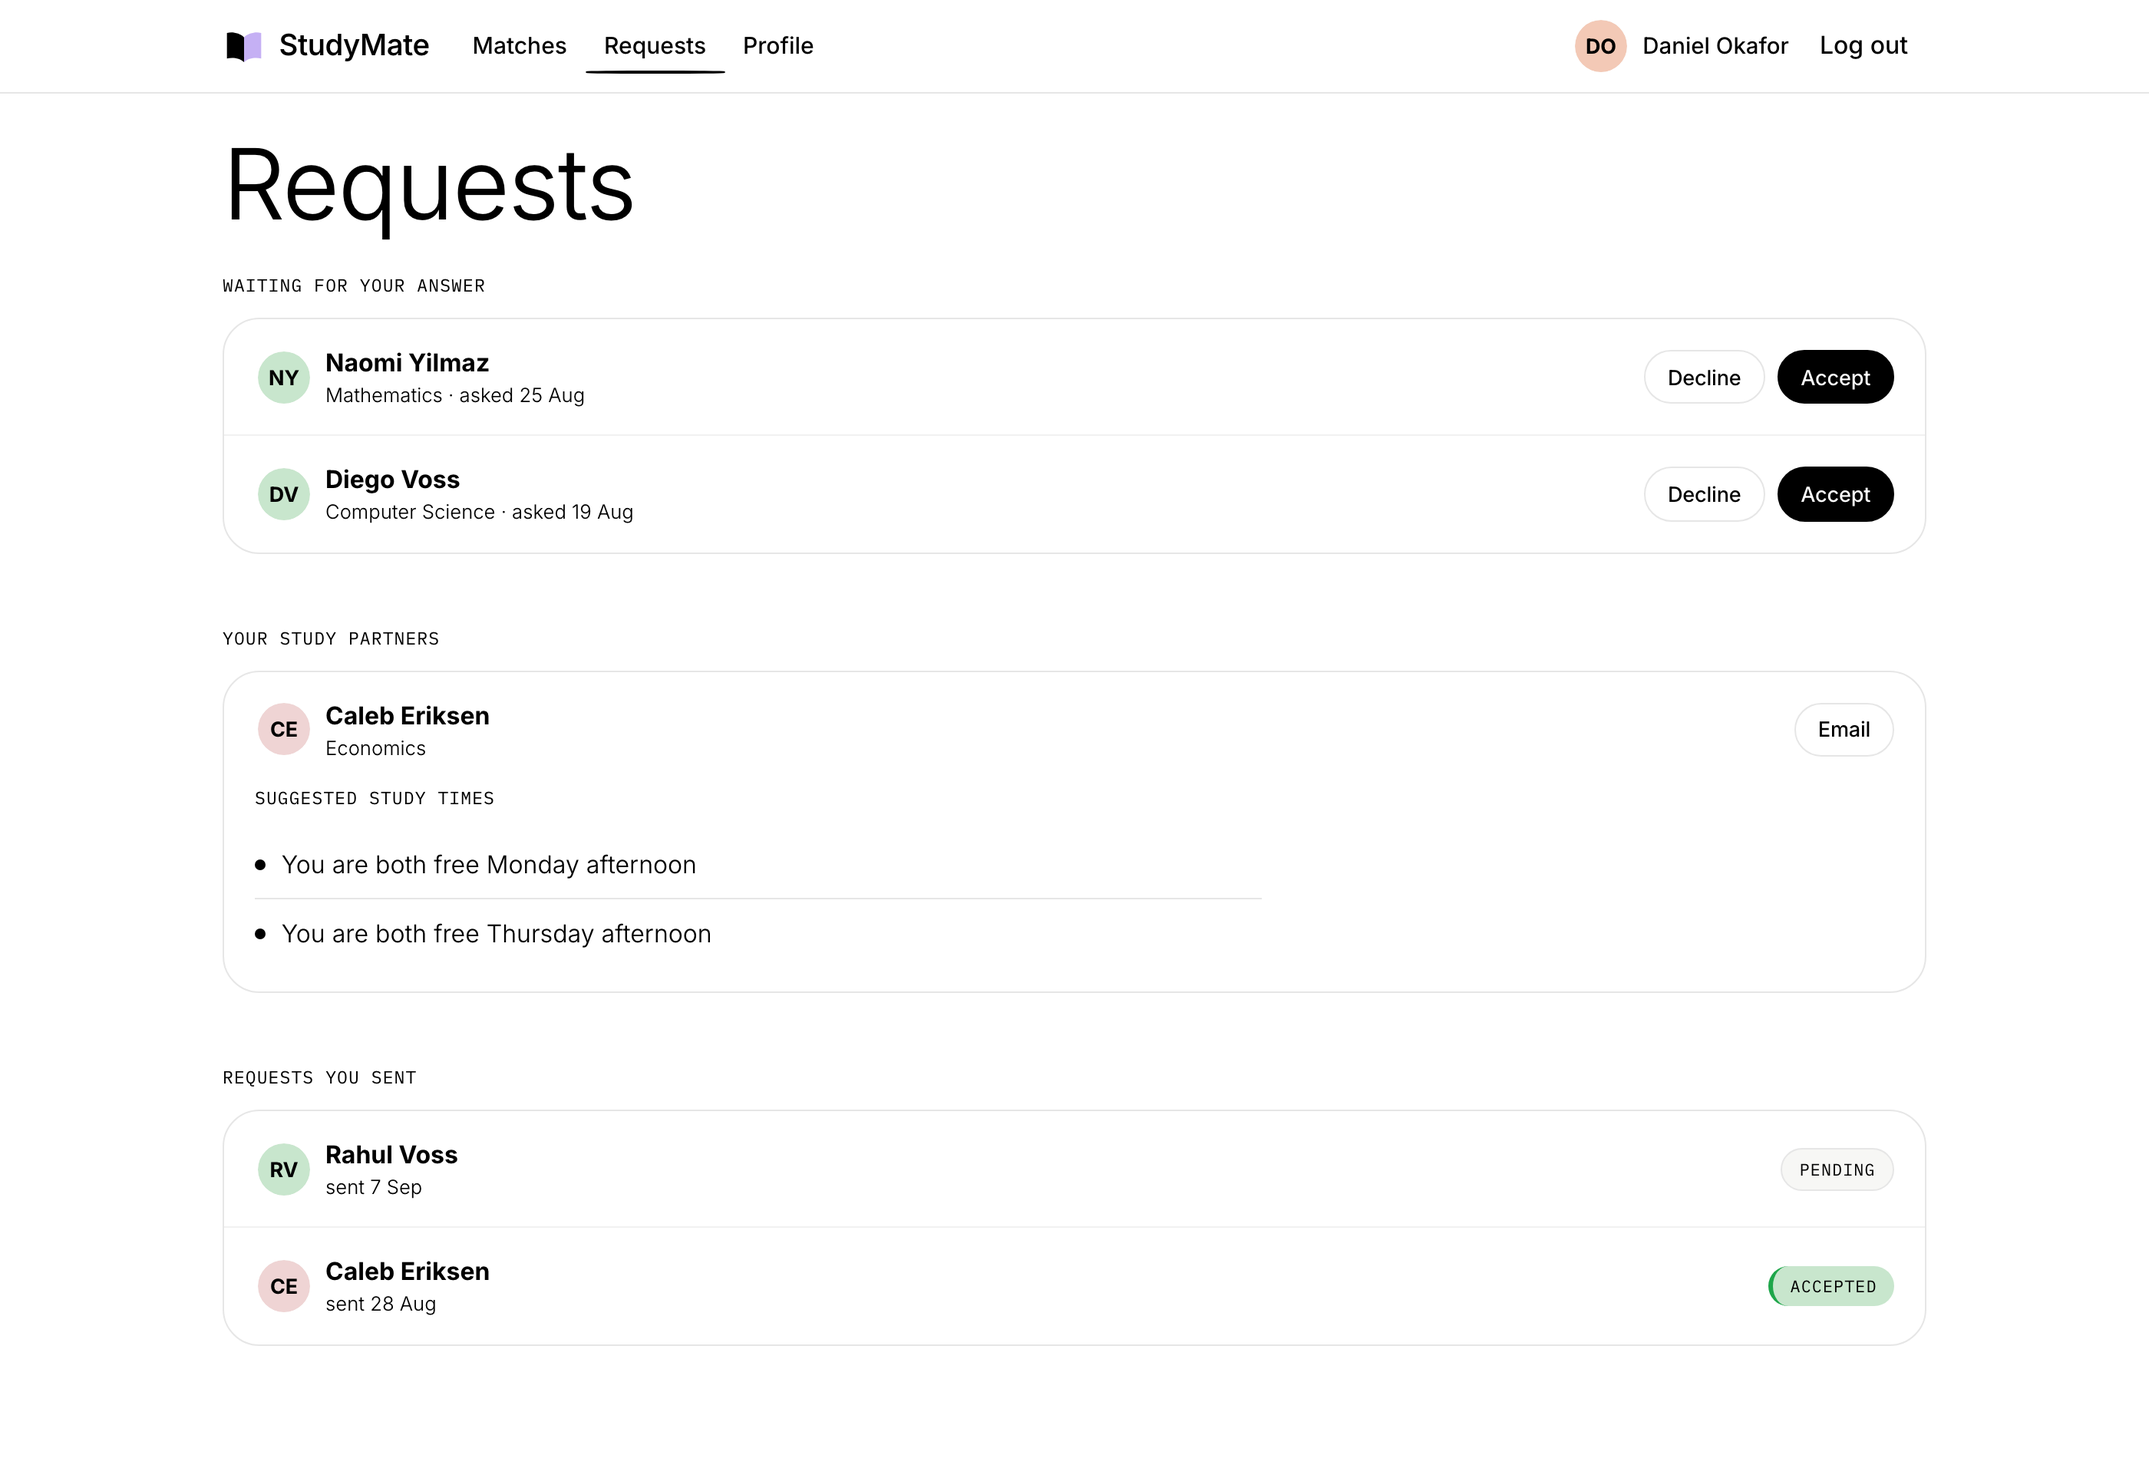
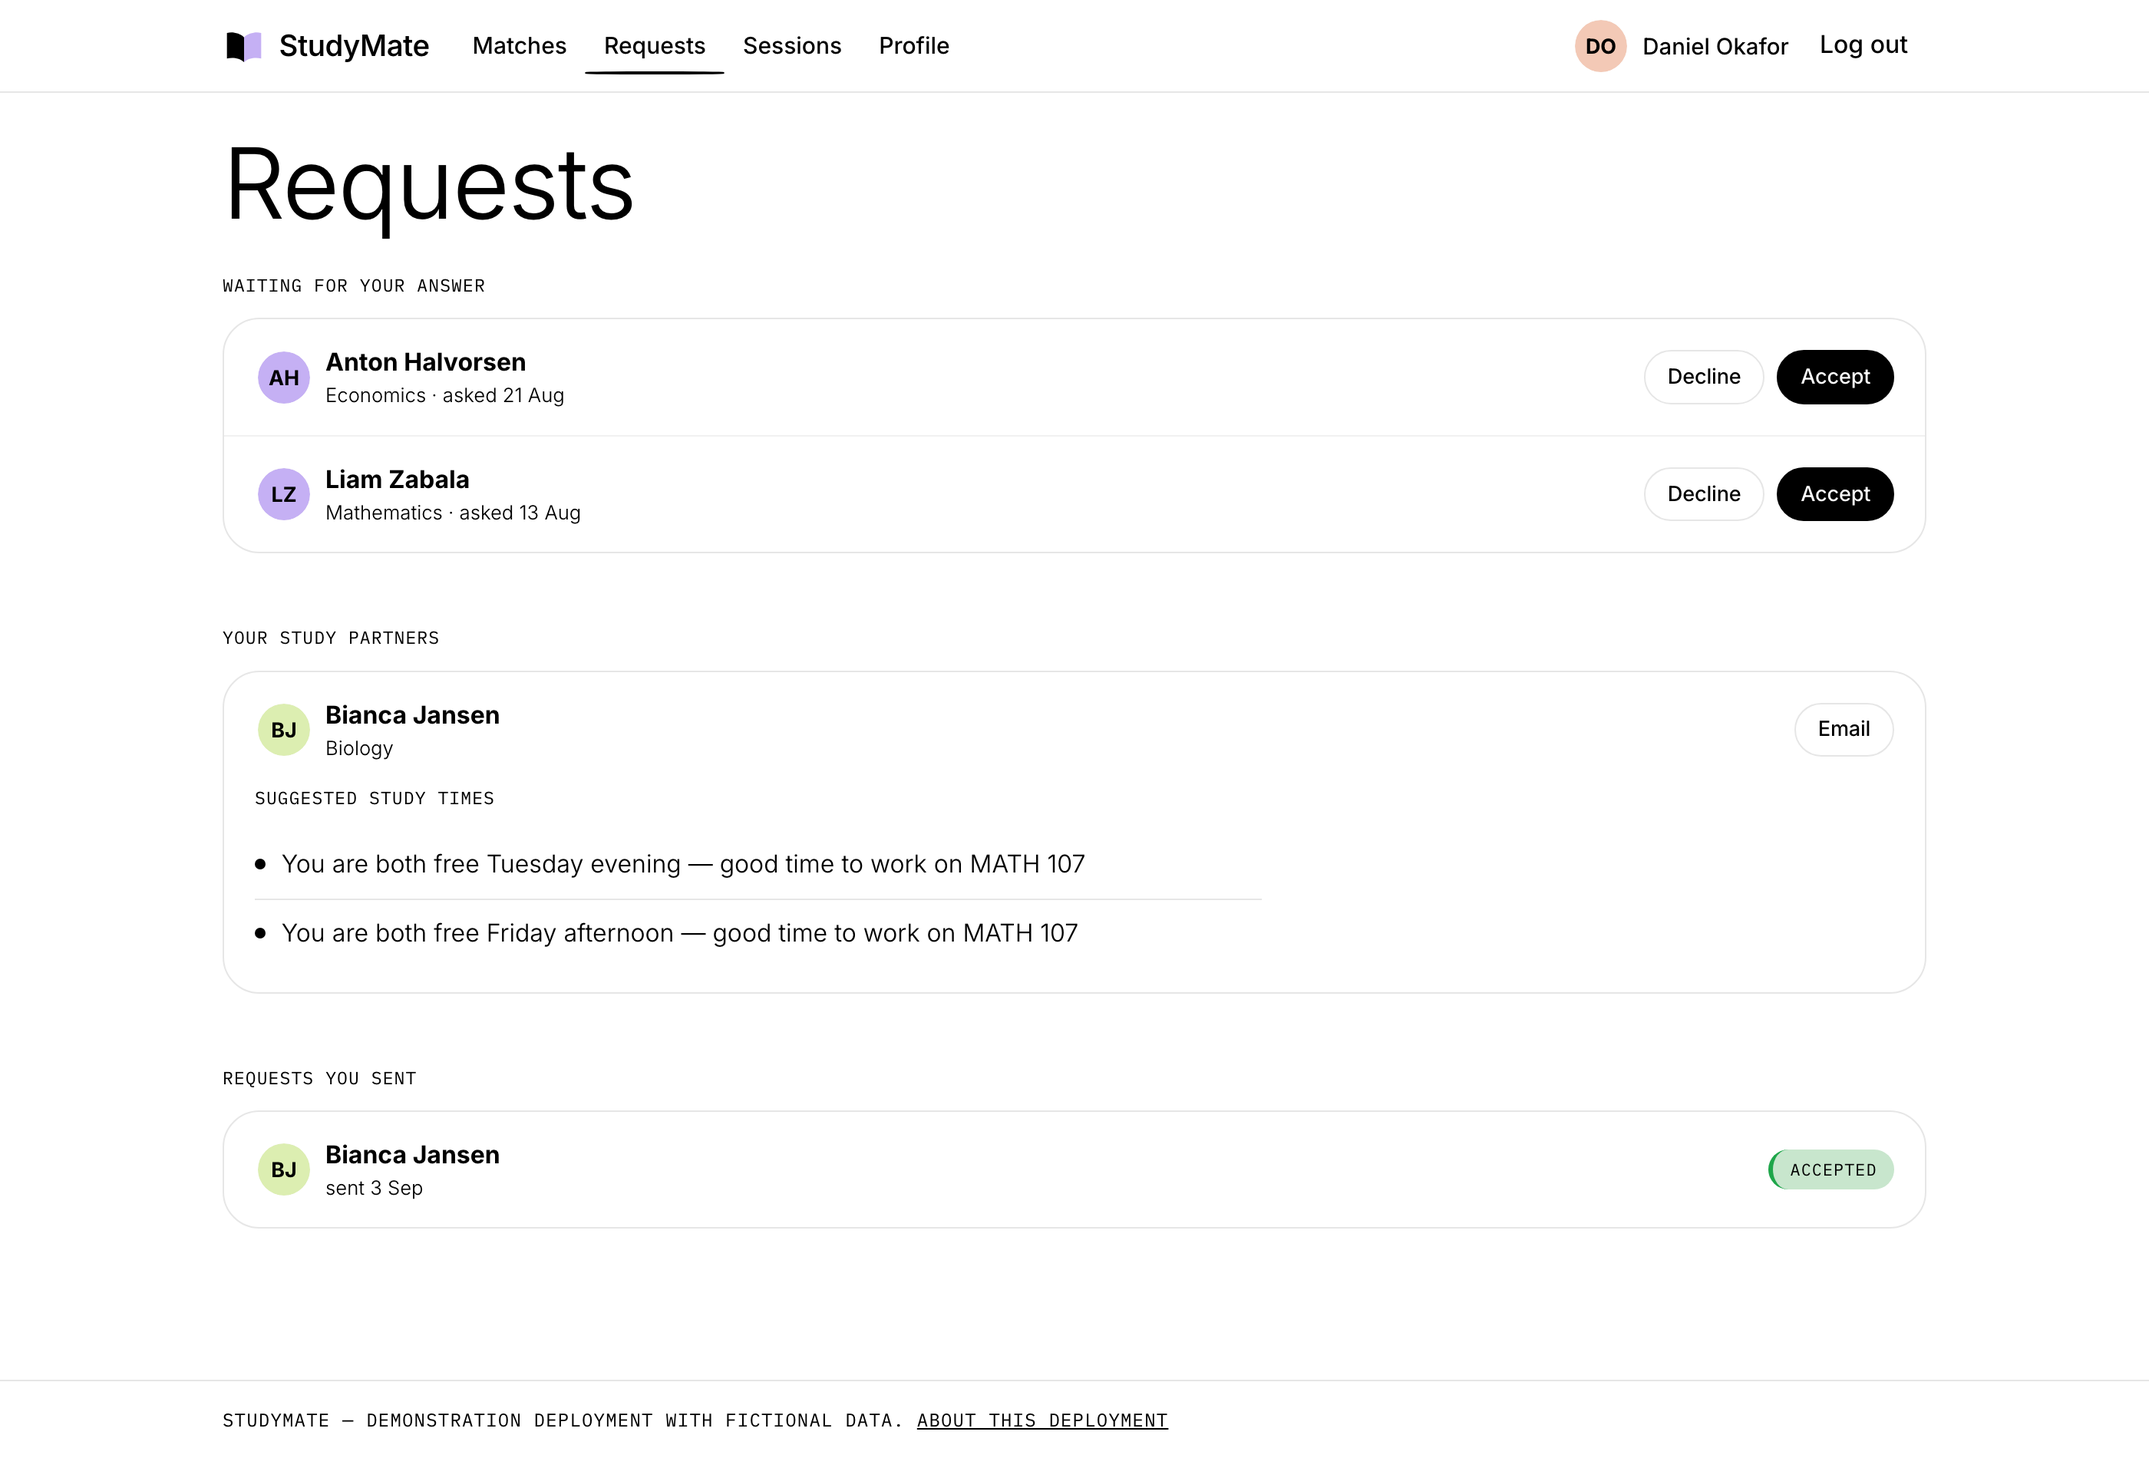
Let students host sessions, and document what the app now does
The sessions feature shipped with no way to create a session. The controller
could list, show, join and leave, but nothing could bring one into existence,
and the seeder created none — so the page was permanently empty and there was
nothing to join. Adds the create form and its two actions, restricted to
courses on the student's own schedule and checked server-side rather than
trusting the dropdown, with the host recorded as a participant so capacity
means the same thing for them as for anyone joining later.

The sessions list gets a way in and a real empty state instead of one line of
grey text, and the seeder now creates a handful of sessions on days and blocks
their hosts are genuinely free in, so the page is populated on first run the
same way the students and requests already are.

Screenshots re-shot against the merged app, with sessions and the admin
dashboard added.

The README claimed three things that had become false: that university is free
text with no catalog to check it against, that there is no moderation tooling
or abuse reporting, and that group study sessions and moderation were left out
on purpose. All three now exist. Rewritten to describe sessions, blocking and
the moderation queue, and the dashboard, and to say plainly what the identity
check does and does not prove — the provider confirms the email, the domain
decides the university, and no mail is ever sent.

diff --git a/StudyMate/Controllers/SessionsController.cs b/StudyMate/Controllers/SessionsController.cs
@@ -10,6 +10,69 @@ public class SessionsController(AppDbContext db) : Controller
 {
  public async Task<IActionResult> Index() { var me=User.GetStudentId(); if(me==null)return Forbid(); var student=await db.Students.FindAsync(me); if(student?.UniversityId==null)return View(Array.Empty<StudySession>()); var courses=await db.Enrollments.Where(e=>e.StudentId==me).Select(e=>e.CourseId).ToListAsync(); var sessions=await db.StudySessions.Include(s=>s.Course).Include(s=>s.Participants).Where(s=>!s.IsCancelled && courses.Contains(s.CourseId) && s.Course.UniversityId==student.UniversityId).ToListAsync(); return View(SessionScheduler.Rank(sessions,DateTime.Today)); }
  public async Task<IActionResult> Detail(int id) { var session=await db.StudySessions.Include(s=>s.Course).Include(s=>s.Participants).ThenInclude(p=>p.Student).FirstOrDefaultAsync(s=>s.Id==id); return session==null?NotFound():View(session); }
+    /// <summary>
+    /// The form for hosting a session. Only courses already on the student's own
+    /// schedule are offered — a session for a course you are not taking would never
+    /// surface to anyone, since browsing is filtered by enrolment.
+    /// </summary>
+    [HttpGet]
+    public async Task<IActionResult> Create()
+    {
+        var me = User.GetStudentId();
+        if (me == null) return Forbid();
+        await PopulateCourseChoices(me.Value);
+        return View(new StudySession { Capacity = 4 });
+    }
+
+    [HttpPost, ValidateAntiForgeryToken]
+    public async Task<IActionResult> Create(StudySession session)
+    {
+        var me = User.GetStudentId();
+        if (me == null) return Forbid();
+
+        // Only ever host for a course you are enrolled in. Enforced server-side: the
+        // dropdown restricts the choice, but the post can be forged.
+        var enrolled = await db.Enrollments
+            .AnyAsync(e => e.StudentId == me.Value && e.CourseId == session.CourseId);
+        if (!enrolled)
+            ModelState.AddModelError(nameof(session.CourseId), "Pick a course from your own schedule.");
+
+        if (session.Capacity < 2 || session.Capacity > 8)
+            ModelState.AddModelError(nameof(session.Capacity), "A session holds between 2 and 8 people.");
+
+        if (string.IsNullOrWhiteSpace(session.Location))
+            ModelState.AddModelError(nameof(session.Location), "Say where you plan to meet.");
+
+        if (!ModelState.IsValid)
+        {
+            await PopulateCourseChoices(me.Value);
+            return View(session);
+        }
+
+        session.HostStudentId = me.Value;
+        session.CreatedAt = DateTime.UtcNow;
+        session.IsCancelled = false;
+        db.StudySessions.Add(session);
+        await db.SaveChangesAsync();
+
+        // The host counts as a participant, so capacity and the participant list mean
+        // the same thing for them as for everyone who joins later.
+        db.SessionParticipants.Add(new SessionParticipant { SessionId = session.Id, StudentId = me.Value });
+        await db.SaveChangesAsync();
+
+        return RedirectToAction(nameof(Detail), new { id = session.Id });
+    }
+
+    private async Task PopulateCourseChoices(int studentId)
+    {
+        ViewBag.Courses = await db.Enrollments
+            .Where(e => e.StudentId == studentId)
+            .Include(e => e.Course)
+            .Select(e => e.Course)
+            .OrderBy(c => c.Code)
+            .ToListAsync();
+    }
+
  [HttpPost,ValidateAntiForgeryToken] public async Task<IActionResult> Join(int id) { var me=User.GetStudentId(); if(me==null)return Forbid(); var session=await db.StudySessions.Include(s=>s.Participants).ThenInclude(p=>p.Student).FirstOrDefaultAsync(s=>s.Id==id); if(session==null)return NotFound(); var blocks=await db.Blocks.ToListAsync(); if(SessionScheduler.CanJoin(session,me.Value,blocks)){db.SessionParticipants.Add(new SessionParticipant{SessionId=id,StudentId=me.Value});await db.SaveChangesAsync();} return RedirectToAction(nameof(Detail),new{id}); }
  [HttpPost,ValidateAntiForgeryToken] public async Task<IActionResult> Leave(int id) { var me=User.GetStudentId(); if(me==null)return Forbid(); var p=await db.SessionParticipants.FindAsync(id,me.Value); if(p==null)return NotFound(); var session=await db.StudySessions.FindAsync(id); if(session?.HostStudentId==me)session.IsCancelled=true; else db.SessionParticipants.Remove(p); await db.SaveChangesAsync(); return RedirectToAction(nameof(Index)); }
 }

diff --git a/StudyMate/Data/DataSeeder.cs b/StudyMate/Data/DataSeeder.cs
@@ -66,6 +66,7 @@ namespace StudyMate.Data
 
             await db.SaveChangesAsync();
             await SeedRequestsAsync(db, students, random);
+            await SeedSessionsAsync(db, students, random);
 
             await transaction.CommitAsync();
         }
@@ -448,6 +449,89 @@ namespace StudyMate.Data
                 CreatedAt = DateTime.UtcNow.AddDays(-random.Next(1, 30)),
                 RespondedAt = respondedAt
             });
+        }
+
+
+        /// <summary>
+        /// A handful of study sessions so the sessions page is populated the moment the
+        /// app starts, the same reason the students, courses and requests are seeded.
+        /// Hosts are drawn from students who actually have courses and availability, and
+        /// each session is placed on a day and block its host is genuinely free in, so
+        /// the seeded data does not contradict the availability the app matches on.
+        /// </summary>
+        private static async Task SeedSessionsAsync(AppDbContext db, List<Student> students, Random random)
+        {
+            var locations = new[]
+            {
+                "Love Library, 3rd floor",
+                "Union, back study room",
+                "Avery Hall lobby",
+                "Coffee house on 14th",
+                "Science library, quiet side"
+            };
+
+            var notes = new[]
+            {
+                "Working through the problem set — bring your notes.",
+                "Reviewing before the midterm.",
+                "Mostly quiet, we just want company while we read.",
+                "Going over lecture slides together.",
+                ""
+            };
+
+            var hosts = students
+                .Where(s => s.Enrollments != null && s.Enrollments.Any()
+                            && s.Availability != null && s.Availability.Any())
+                .OrderBy(_ => random.Next())
+                .Take(8)
+                .ToList();
+
+            foreach (var host in hosts)
+            {
+                var enrolment = host.Enrollments.ElementAt(random.Next(host.Enrollments.Count));
+                var slot = host.Availability.ElementAt(random.Next(host.Availability.Count));
+
+                var session = new StudySession
+                {
+                    CourseId = enrolment.CourseId,
+                    HostStudentId = host.StudentId,
+                    Day = slot.Day,
+                    Block = slot.Block,
+                    Capacity = random.Next(3, 7),
+                    Location = Pick(random, locations),
+                    Note = Pick(random, notes),
+                    CreatedAt = DateTime.UtcNow.AddDays(-random.Next(1, 14)),
+                    IsCancelled = false
+                };
+
+                db.StudySessions.Add(session);
+                await db.SaveChangesAsync();
+
+                db.SessionParticipants.Add(new SessionParticipant
+                {
+                    SessionId = session.Id,
+                    StudentId = host.StudentId
+                });
+
+                // A couple of other students from the same university join, so capacity
+                // reads as partly filled rather than every session sitting at 1 of 5.
+                var joiners = students
+                    .Where(s => s.StudentId != host.StudentId && s.UniversityId == host.UniversityId)
+                    .OrderBy(_ => random.Next())
+                    .Take(random.Next(0, Math.Min(3, session.Capacity - 1)))
+                    .ToList();
+
+                foreach (var joiner in joiners)
+                {
+                    db.SessionParticipants.Add(new SessionParticipant
+                    {
+                        SessionId = session.Id,
+                        StudentId = joiner.StudentId
+                    });
+                }
+            }
+
+            await db.SaveChangesAsync();
         }
 
         private static string Pick(Random random, string[] values) => values[random.Next(values.Length)];

diff --git a/README.md b/README.md
@@ -148,14 +148,58 @@ logic rather than restating it.
 
 ---
 
+## Study sessions
+
+Matching one-to-one only goes so far — often what you actually want is three or four
+people from the same course in the same room. A session names a course, a day and
+block, somewhere to meet and how many people it holds. Anyone at your university
+taking that course can join while there is room.
+
+![Study sessions](docs/screenshots/sessions.png)
+
+Sessions are ranked the same way suggested times are: by how soon they come round,
+not by when they were created. `SessionScheduler` holds the ranking, capacity and
+eligibility rules and, like `MatchScorer`, has no reference to Entity Framework, so
+those rules are unit-tested directly. Leaving a session you host cancels it — the
+people who joined can see that it was cancelled rather than finding it silently gone.
+
+## Blocking, reporting and moderation
+
+Blocking is mutual and total: a blocked pair never see each other again in the deck,
+the ranked list, requests, suggested times or sessions. The exclusion lives in the
+same place as the existing "never anyone you already passed" rules, so there is one
+answer to who is allowed to see whom rather than a check per screen. Blocking also
+withdraws any request still open between the two.
+
+Reports carry a reason and go to a moderation queue where they can be dismissed or
+acted on, with a note recorded either way. Nothing is ever surfaced to the person who
+was reported.
+
+## Admin dashboard
+
+An institution asking whether this is worth adopting wants numbers, so there is a
+dashboard: students registered and how many are domain-verified, matches reviewed,
+requests sent and accepted, sessions created and how full they run, and open reports.
+
+![The admin dashboard](docs/screenshots/admin-dashboard.png)
+
+It shows aggregates only. Individual student data stays out of it — a dashboard for
+running the service, not for watching the people using it.
+
+---
+
 ## Built with
 
 ASP.NET Core 8 MVC · C# · Razor · Entity Framework Core 8 · SQLite · Bootstrap 4 ·
 xUnit · Docker
 
 Authentication is cookie-based with passwords hashed via ASP.NET Core's
-`PasswordHasher`. Sign-in with GitHub is included as an optional third path and
-activates only when a client id and secret are configured.
+`PasswordHasher`. Signing in with an institutional account is the path that proves
+which university a student belongs to: the provider returns an already-verified email
+address, and its domain is matched against the domains registered for that university.
+That means affiliation can be established without the app sending a single email.
+Every provider is optional and activates only when its client id and secret are
+configured — with none set the app runs normally and the demo profiles are the way in.
 
 ---
 
@@ -170,15 +214,18 @@ This is a demonstration deployment, and it is worth being specific about what th
   edits and uploaded profile photos are all lost on restart, redeploy, and after an
   idle spin-down. Within a session everything persists normally. The seeded data
   always returns intact.
-- **University is free text, not a verified list.** There's no catalog to check it
-  against. Casing and leading/trailing whitespace are normalized on save, but
-  "University of Nebraska" and "University of Nebraska-Lincoln" would still be
-  treated as two different schools — spelling has to match exactly.
+- **Only the seeded universities have a course catalog.** A university is a real
+  record with its own recognised email domains and its own course list, so students
+  pick courses rather than typing them. That list is seeded from a checked-in file;
+  a university nobody has added yet falls back to free-text entry, with the same
+  department-code-plus-number validation as before.
 - **The first request after an idle period takes about a minute.** The free tier spins
   the service down after 15 minutes without traffic.
-- **It is not built to hold real personal data.** There is no email verification, no
-  password reset, no moderation tooling and no abuse reporting. Those are prerequisites
-  for a real deployment and are deliberately out of scope here.
+- **It is still not built to hold real personal data.** Blocking, reporting and a
+  moderation queue exist, but there is no password reset, no appeals process, and no
+  retention policy. Affiliation is proved by signing in with an institutional account
+  and checking the verified email's domain — there is no independent email
+  verification of an address the provider has not already confirmed.
 - **GitHub sign-in needs its own setup.** A fresh clone has no OAuth app behind it. To
   enable it, register an OAuth app with a callback of `/signin-github` and supply
   `Authentication__GitHub__ClientId` and `Authentication__GitHub__ClientSecret` as
@@ -186,8 +233,10 @@ This is a demonstration deployment, and it is worth being specific about what th
 - **Matching is unweighted by feedback.** Scores come from a fixed rubric; nothing
   learns from which connections were actually accepted.
 
-Chat, group study sessions, notifications and moderation were considered and left
-out on purpose, to keep the scope to something that is actually finished.
+Chat and notifications are still deliberately out of scope. Without somewhere to
+send a message and someone to answer it, both are scaffolding for a conversation the
+app does not host — connecting people and telling them when to meet is the part worth
+doing well.
 
 ---
 
